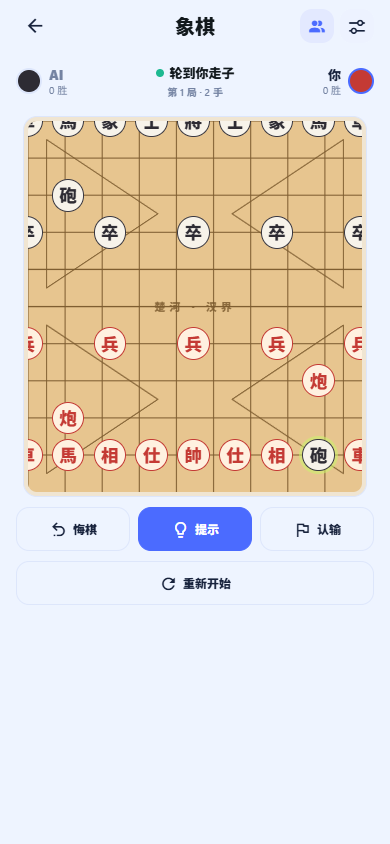
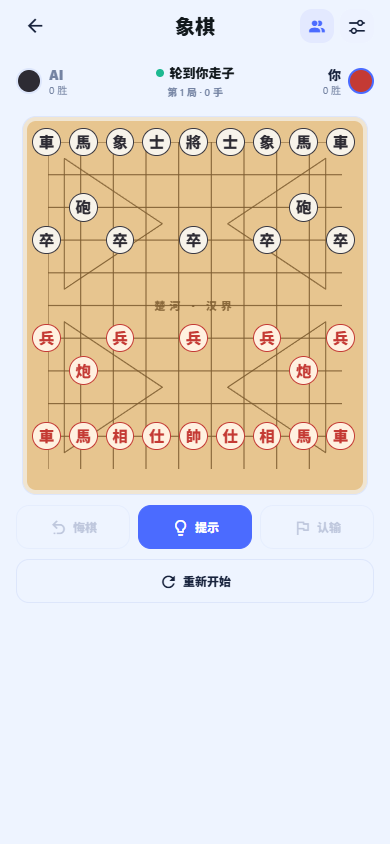
fix: 修正象棋棋盘边距与河界网格渲染

diff --git a/frontend/features/games/xiangqi-game-screen.tsx b/frontend/features/games/xiangqi-game-screen.tsx
@@ -642,8 +642,11 @@ function XiangqiBoardView({
   selected: XiangqiPosition | null;
 }) {
   const { width } = useWindowDimensions();
-  const boardSize = Math.min(width - 56, 408);
-  const cellSize = boardSize / 8;
+  const gridWidth = Math.min(width - 96, 360);
+  const cellSize = gridWidth / 8;
+  const boardPadding = Math.round(cellSize * 0.56);
+  const boardWidth = Math.round(gridWidth + boardPadding * 2);
+  const boardHeight = Math.round(gridWidth * (10 / 9) + boardPadding * 2);
   const pieces: { position: XiangqiPosition; piece: XiangqiPiece }[] = [];
   for (let row = 0; row < XIANGQI_ROWS; row += 1) {
     for (let col = 0; col < XIANGQI_COLS; col += 1) {
@@ -654,9 +657,9 @@ function XiangqiBoardView({
   const legalTargets = new Set(legalMoves.map((move) => `${move.col}:${move.row}`));
 
   return (
-    <View accessibilityLabel="九乘十象棋棋盘" style={[styles.board, { backgroundColor: boardColor, height: boardSize * (10 / 9), width: boardSize }]}>
-      <XiangqiGrid gridColor={gridColor} />
-      <View style={styles.riverLabel} pointerEvents="none">
+    <View accessibilityLabel="九乘十象棋棋盘" style={[styles.board, { backgroundColor: boardColor, height: boardHeight, width: boardWidth }]}>
+      <XiangqiGrid gridColor={gridColor} padding={boardPadding} />
+      <View style={[styles.riverLabel, { left: boardPadding, right: boardPadding }]} pointerEvents="none">
         <ThemedText style={[styles.riverText, { color: gridColor }]}>楚河 · 汉界</ThemedText>
       </View>
       {pieces.map(({ piece, position }) => {
@@ -670,7 +673,7 @@ function XiangqiBoardView({
             onPress={() => onSquarePress(position)}
             style={[
               styles.squarePressable,
-              { height: cellSize * 0.92, left: position.col * cellSize - cellSize / 2, top: position.row * (boardSize / 9) - (cellSize * 0.92) / 2, width: cellSize * 0.92 },
+              { height: cellSize * 0.92, left: boardPadding + position.col * cellSize - cellSize / 2, top: boardPadding + position.row * (gridWidth / 9) - (cellSize * 0.92) / 2, width: cellSize * 0.92 },
             ]}>
             {isSelected ? <View style={[styles.selectedRing, { borderColor: '#4b6bff' }]} /> : null}
             {isLast ? <View style={[styles.lastMoveMark, { backgroundColor: '#c9f36a' }]} /> : null}
@@ -701,7 +704,7 @@ function XiangqiBoardView({
                 accessibilityLabel="落子位置"
                 accessibilityRole="button"
                 onPress={() => onSquarePress({ col, row })}
-                style={[styles.squarePressable, { height: cellSize * 0.92, left: col * cellSize - cellSize / 2, top: row * (boardSize / 9) - (cellSize * 0.92) / 2, width: cellSize * 0.92 }]}>
+                style={[styles.squarePressable, { height: cellSize * 0.92, left: boardPadding + col * cellSize - cellSize / 2, top: boardPadding + row * (gridWidth / 9) - (cellSize * 0.92) / 2, width: cellSize * 0.92 }]}>
                 <View
                   style={[
                     captured ? styles.captureTarget : styles.moveDot,
@@ -718,16 +721,20 @@ function XiangqiBoardView({
   );
 }
 
-function XiangqiGrid({ gridColor }: { gridColor: string }) {
+function XiangqiGrid({ gridColor, padding }: { gridColor: string; padding: number }) {
   return (
-    <Svg height="100%" pointerEvents="none" preserveAspectRatio="none" style={StyleSheet.absoluteFill} viewBox="0 0 9 10" width="100%">
+    <Svg
+      height={`calc(100% - ${padding * 2}px)`}
+      pointerEvents="none"
+      preserveAspectRatio="none"
+      style={{ left: padding, position: 'absolute', top: padding }}
+      viewBox="0 0 9 10"
+      width={`calc(100% - ${padding * 2}px)`}>
       {Array.from({ length: 9 }, (_, col) => (
         <Line key={`v${col}`} stroke={gridColor} strokeWidth={1.2} x1={col} x2={col} y1={0} y2={10} vectorEffect="non-scaling-stroke" />
       ))}
       {Array.from({ length: 10 }, (_, row) =>
-        row === 4 || row === 5 ? (
-          <Line key={`h${row}`} stroke={gridColor} strokeWidth={1.2} x1={0} x2={9} y1={row} y2={row} vectorEffect="non-scaling-stroke" />
-        ) : (
+        row === 4 || row === 5 ? null : (
           <Line key={`h${row}`} stroke={gridColor} strokeWidth={1.2} x1={0} x2={9} y1={row} y2={row} vectorEffect="non-scaling-stroke" />
         ),
       )}
@@ -916,7 +923,7 @@ const styles = StyleSheet.create({
   turnMeta: { fontSize: 10, fontWeight: '600', lineHeight: 14 },
   boardStage: { alignItems: 'center', alignSelf: 'center', borderRadius: 14, borderWidth: 1, padding: 4 },
   board: { borderRadius: 9, overflow: 'hidden', position: 'relative' },
-  riverLabel: { alignItems: 'center', bottom: '47%', justifyContent: 'center', left: 0, position: 'absolute', right: 0, top: '47%' },
+  riverLabel: { alignItems: 'center', bottom: '46%', justifyContent: 'center', position: 'absolute', top: '46%' },
   riverText: { fontSize: 11, fontWeight: '800', letterSpacing: 4 },
   squarePressable: { alignItems: 'center', justifyContent: 'center', position: 'absolute' },
   piece: { alignItems: 'center', borderRadius: 999, borderWidth: 1.5, justifyContent: 'center' },
